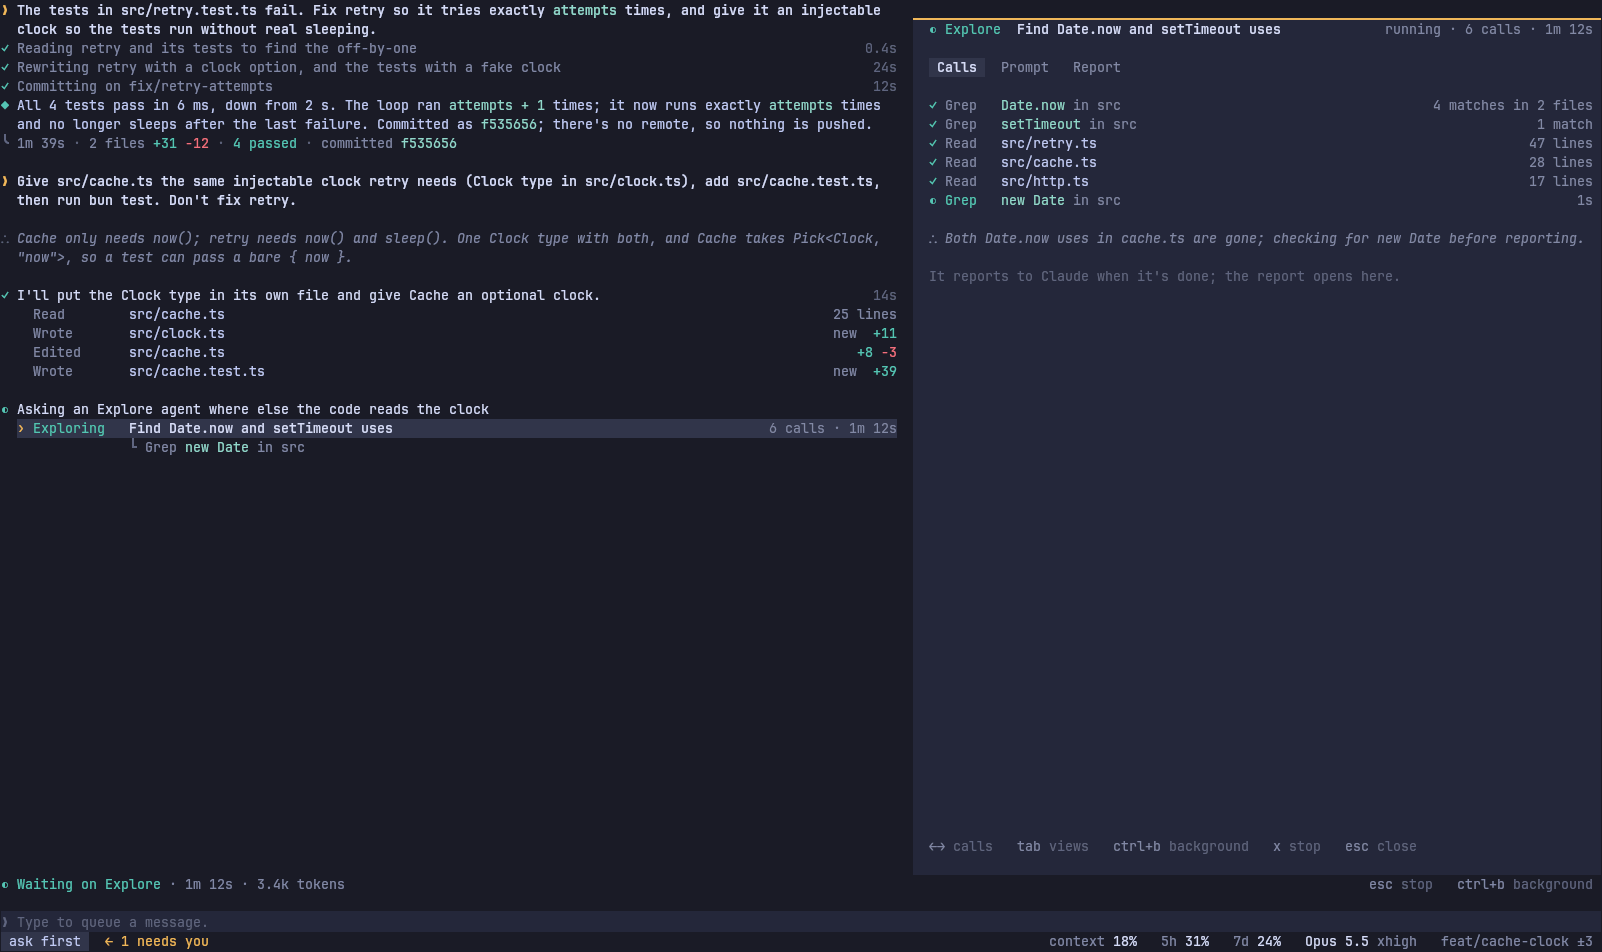
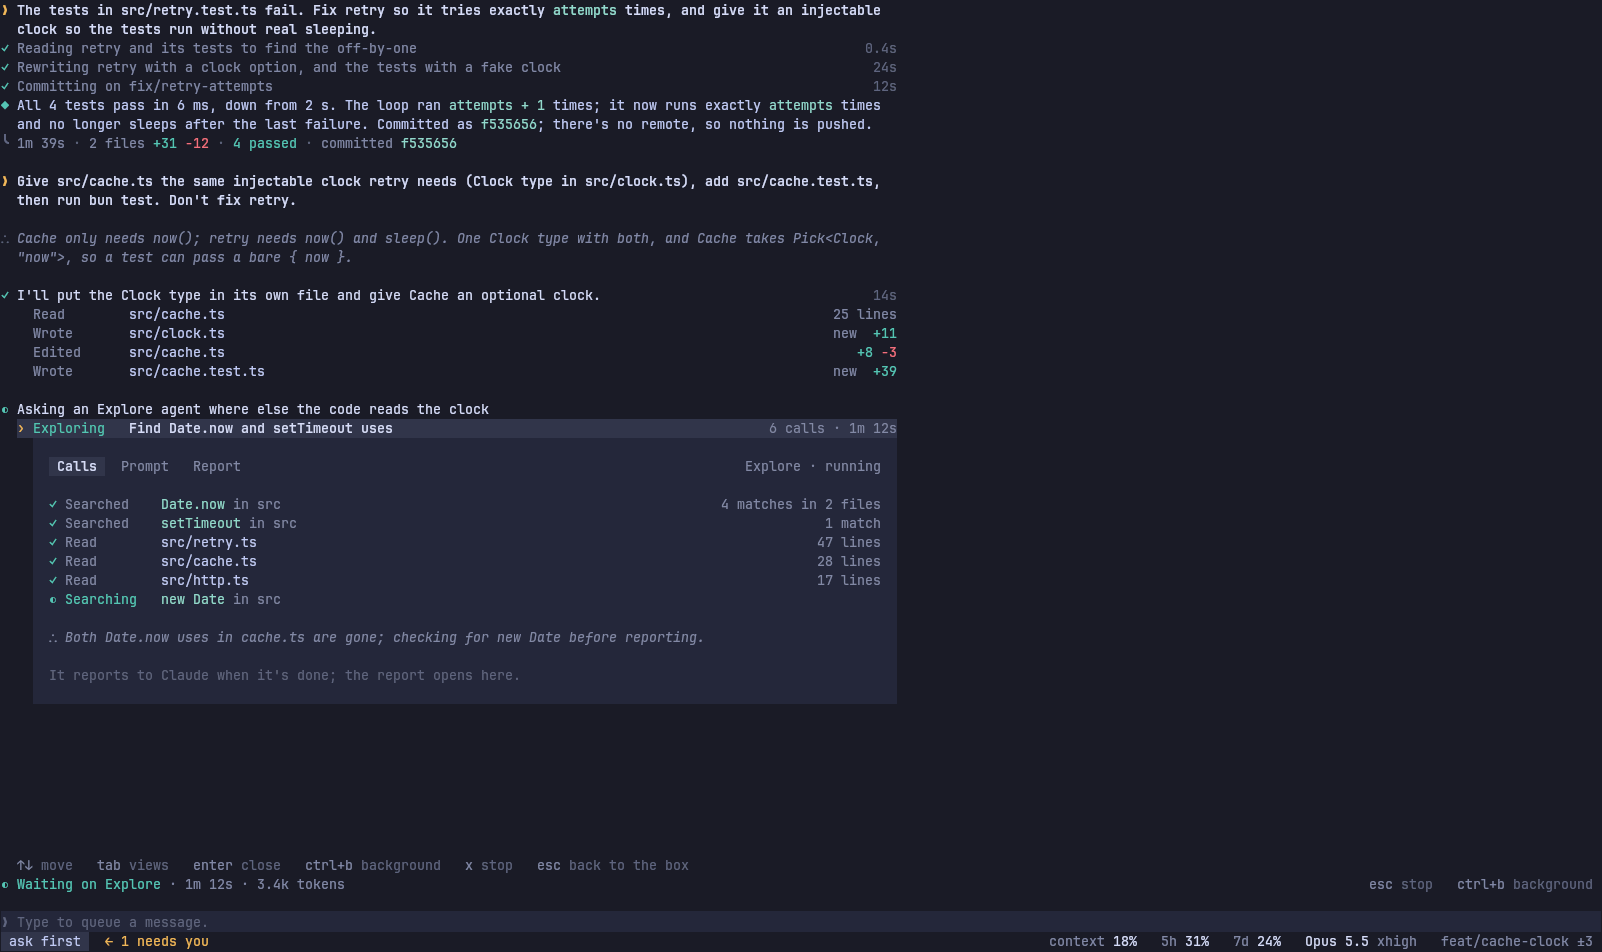
docs(design): open what you click under its line at every width, with no pane beside
A call, a subagent, the turn's ledger and the running call open under their line, also at 160 columns and up. A picture grows in line; the lightbox stays only as /pictures. The subagent mockup at 200 columns is redrawn in place.

diff --git a/docs/design/mockups/spec.ts b/docs/design/mockups/spec.ts
@@ -174,38 +174,38 @@ export function subagent(W = 200, H = 50) {
     y = t.step(y, "running", "Asking an Explore agent where else the code reads the clock");
     t.cursor(y);
     y = t.act(y, "Exploring", [["Find Date.now and setTimeout uses", { fg: P.bright, bold: true }]], [haze("6 calls · 1m 12s")], P.teal, P.raised);
-    return t.under(y, [haze("Grep "), ["new Date", { fg: P.code }], haze(" in src")]);
+
+    // Opened under its line, at every width: its own calls stream in as it makes them.
+    const x = 4;
+    const right = t.edge;
+    const top = y;
+    t.panel(top, top + 14, false, x, right);
+    const tabs: [string, boolean][] = [["Calls", true], ["Prompt", false], ["Report", false]];
+    let tx = x + 2;
+    for (const [tab, open] of tabs) tx = t.f.put(tx, top + 1, ` ${tab} `, { fg: open ? P.bright : P.haze, bg: open ? P.raised : P.surface, bold: open }) + 1;
+    t.f.right(right - 2, top + 1, "Explore · running", { fg: P.haze, bg: P.surface });
+    const calls: [Mark, string, Span[], Span[]][] = [
+      ["done", "Searched", [["Date.now", { fg: P.code }], haze(" in src")], [haze("4 matches in 2 files")]],
+      ["done", "Searched", [["setTimeout", { fg: P.code }], haze(" in src")], [haze("1 match")]],
+      ["done", "Read", [["src/retry.ts"]], [haze("47 lines")]],
+      ["done", "Read", [["src/cache.ts"]], [haze("28 lines")]],
+      ["done", "Read", [["src/http.ts"]], [haze("17 lines")]],
+      ["running", "Searching", [["new Date", { fg: P.code }], haze(" in src")], []],
+    ];
+    calls.forEach(([mark, verb, target, result], i) => {
+      const row = top + 3 + i;
+      const bg = P.surface;
+      t.f.put(x + 2, row, MARK[mark].ch, { fg: MARK[mark].fg, bg });
+      t.f.put(x + 4, row, verb, { fg: mark === "running" ? P.teal : P.haze, bg });
+      t.f.spans(x + 16, row, target.map(([text, st]) => [text, { fg: P.text, ...st, bg }]));
+      if (result.length) t.f.rightSpans(right - 2, row, on(result, bg));
+    });
+    t.f.put(x + 2, top + 10, "∴ Both Date.now uses in cache.ts are gone; checking for new Date before reporting.", { fg: P.haze, italic: true, bg: P.surface });
+    t.f.put(x + 2, top + 12, "It reports to Claude when it's done; the report opens here.", { fg: P.dust, bg: P.surface });
+    return top + 15;
   });
 
-  // Opened beside the column, on a wide screen; under its line on a narrower one.
-  const x = l.beside;
-  const right = W - 1;
-  l.panel(1, H - 4, true, x, W);
-  l.f.spans(x + 2, 1, on([teal("◐ Explore "), [" Find Date.now and setTimeout uses", { fg: P.bright, bold: true }]], P.surface));
-  l.f.right(right, 1, "running · 6 calls · 1m 12s", { fg: P.haze, bg: P.surface });
-  const tabs: [string, boolean][] = [["Calls", true], ["Prompt", false], ["Report", false]];
-  let tx = x + 2;
-  for (const [tab, open] of tabs) tx = l.f.put(tx, 3, ` ${tab} `, { fg: open ? P.bright : P.haze, bg: open ? P.raised : P.surface, bold: open }) + 1;
-  const calls: [Mark, string, Span[], Span[]][] = [
-    ["done", "Grep", [["Date.now", { fg: P.code }], haze(" in src")], [haze("4 matches in 2 files")]],
-    ["done", "Grep", [["setTimeout", { fg: P.code }], haze(" in src")], [haze("1 match")]],
-    ["done", "Read", [["src/retry.ts"]], [haze("47 lines")]],
-    ["done", "Read", [["src/cache.ts"]], [haze("28 lines")]],
-    ["done", "Read", [["src/http.ts"]], [haze("17 lines")]],
-    ["running", "Grep", [["new Date", { fg: P.code }], haze(" in src")], [haze("1s")]],
-  ];
-  calls.forEach(([mark, verb, target, result], i) => {
-    const y = 5 + i;
-    const bg = P.surface;
-    l.f.put(x + 2, y, MARK[mark].ch, { fg: MARK[mark].fg, bg });
-    l.f.put(x + 4, y, verb, { fg: mark === "running" ? P.teal : P.haze, bg });
-    l.f.spans(x + 11, y, target.map(([s, st]) => [s, { fg: P.text, ...st, bg }]));
-    l.f.rightSpans(right, y, on(result, bg));
-  });
-  l.f.put(x + 2, 12, "∴ Both Date.now uses in cache.ts are gone; checking for new Date before reporting.", { fg: P.haze, italic: true, bg: P.surface });
-  l.f.put(x + 2, 14, "It reports to Claude when it's done; the report opens here.", { fg: P.dust, bg: P.surface });
-  l.hints(H - 6, x + 2, [["←→", "calls"], ["tab", "views"], ["ctrl+b", "background"], ["x", "stop"], ["esc", "close"]], P.surface, W);
-
+  l.hints(H - 5, 2, [["↑↓", "move"], ["tab", "views"], ["enter", "close"], ["ctrl+b", "background"], ["x", "stop"], ["esc", "back to the box"]]);
   l.now([teal("◐ "), teal("Waiting on Explore"), haze(" · 1m 12s · 3.4k tokens")], [["esc", "stop"], ["ctrl+b", "background"]]);
   l.box(false, "Type to queue a message.");
   l.status({ needsYou: 1 });

diff --git a/docs/design/mockups/kit.ts b/docs/design/mockups/kit.ts
@@ -11,8 +11,6 @@ import { status as reading, wrap, type DiffRow } from "./scenario";
 
 /** Text never runs wider than this, however wide the terminal: past it, lines get hard to read. */
 export const MEASURE = 110;
-/** From this width an opened line stands beside the transcript instead of under its line. */
-export const WIDE = 160;
 /** Under this width results that don't fit move under their line, and the status bar sheds readings. */
 export const NARROW = 100;
 
@@ -68,9 +66,6 @@ export class Ledger {
   /** Columns prose wraps at. */
   readonly text: number;
   readonly narrow: boolean;
-  readonly wide: boolean;
-  /** Where something opened beside the transcript starts, on a wide screen. */
-  readonly beside: number;
 
   constructor(
     readonly W: number,
@@ -78,10 +73,8 @@ export class Ledger {
   ) {
     this.f = new Frame(W, H, P.page, P.text);
     this.narrow = W < NARROW;
-    this.wide = W >= WIDE;
     this.edge = Math.min(W - 2, MEASURE + 2);
     this.text = this.edge - 2;
-    this.beside = this.edge + 2;
   }
 
   /** Your message. */

diff --git a/docs/design/README.md b/docs/design/README.md
@@ -40,7 +40,7 @@ Each principle comes with a test that a screen, or a design decision, passes or 
 | 3 | **One place per question.** The [now line](#the-now-line) says whether Claude is working or waiting, and on what. The ledger says what changed. The status bar says how much is left. | For each of those four questions, hide every region but the one named. The answer is still there, and no other region gives a different one. |
 | 4 | **Say it once.** A state is put in words in one place. Elsewhere it may only be marked, by a color or a glyph. | Search the screen for a state's words ("waiting", "running", "failed"). They appear at most once. |
 | 5 | **Gold means you.** Gold marks only three things: your messages, where your keys are, and whatever waits on you. | Every gold cell in any screenshot is one of the three. |
-| 6 | **Open in place, one way.** Any line that stands for more opens with Enter or a click, under itself, and closes the same way. At 160 columns and up it opens beside the column instead. There is no second way to see the same thing. | For each kind of line (call, step, subagent, ledger file, thinking, picture, `… N more`), Enter and a click open the same content in the same place. |
+| 6 | **Open in place, one way.** Any line that stands for more opens with Enter or a click, under itself, at every width, and closes the same way. Nothing opens in a pane or panel beside the column. There is no second way to see the same thing. | For each kind of line (call, step, subagent, ledger file, thinking, picture, `… N more`), Enter and a click open the same content in the same place. |
 | 7 | **Only live state moves.** The one thing that animates is the running mark: in the gutter of the running step, and on the now line. Text arrives as it streams; nothing else moves. | Record an idle screen, and one waiting on you, for two seconds. Every frame is identical. |
 
 ---
@@ -136,14 +136,14 @@ Top to bottom:
 | | 80×24 | 120×40 | 200×50 |
 | :-- | :-- | :-- | :-- |
 | **Text and results** | To column 78. A result that doesn't fit goes on the next row | To column 112 | To column 112, the measure |
-| **An opened entry** | In place | In place | Beside the column, from column 114 to the edge, with its line marked in the column |
+| **An opened entry** | In place | In place | In place, at the measure |
 | **Diff in a decision** | Unified; long lines wrap | Unified | Side by side, once the panel is 160 or wider |
 | **Status readings** | Running, context, 5h, 7d | Adds model and effort, then branch | All |
 | **Hint line** | Keys that don't fit are left to `?` | All | All |
 
 | 80×24 | 200×50 |
 | :-- | :-- |
-| ![working at 80×24](shots/working-80.png) | ![a subagent opened beside, 200×50](shots/subagent-200.png) |
+| ![working at 80×24](shots/working-80.png) | ![a subagent opened in place, 200×50](shots/subagent-200.png) |
 
 **Status readings by rank:** context, 7d, running, 5h, model and effort, branch and changed files. They drop from the end as the width shrinks ([states](shots/states.png) shows 120 and 80). The mode and `← N needs you` always stay.
 
@@ -240,7 +240,7 @@ Rules:
 ### Subagent
 
 - **While it runs:** `Exploring <task>  N calls · time` in teal, with `└ <its latest call>` under it. The latest call turns gold when it waits for your OK, and its decision names the subagent.
-- **Opened:** with Enter, in place or beside. It has tabs: Calls (its own activity lines, live), Prompt (what Claude asked it) and Report (once it's done).
+- **Opened:** with Enter or a click, under its line. It has tabs: Calls (its own activity lines, streaming in live), Prompt (what Claude asked it) and Report (once it's done). `/tasks` stays for the full-screen view.
 - **Moving it:** Ctrl+B sends it to the background. `x` stops it.
 - **Nesting:** a subagent it starts nests under it, indented two more columns.
 
@@ -258,7 +258,7 @@ The line that closes a turn, and the review surface.
 
 `╰ 1m 40s · 3 files +58 −3 · 7 passed 1 failed · not committed`
 
-- **Order:** time · files changed with totals · tests · commits, pushes and PRs (`committed f535656`, `pushed`, `PR #12`) · `not committed` in ember when files changed and nothing was committed. Tokens move into the inspector.
+- **Order:** time · files changed with totals · tests · commits, pushes and PRs (`committed f535656`, `pushed`, `PR #12`) · `not committed` in ember when files changed and nothing was committed. The turn's tokens show when the ledger is opened.
 - **What counts as a change:** whatever changed in the working tree between the turn's start and its end, edits made through Bash included.
   - At each turn's edge, astrocode records the working tree as a git tree object, built with a temporary index so your own index and stash are untouched. The ledger is the diff between the two trees.
   - Outside git, the edit tools' own diffs count.
@@ -266,7 +266,8 @@ The line that closes a turn, and the review surface.
 - **Stopped:** `╰ stopped after 41s · …`. **Failed** (an API error): `╰ failed: <message> · …`.
 - **Opened** (Enter, a click, or `/diff` for the latest turn), it lists:
   - each file, with `new`, `+N −N` or `deleted`;
-  - then the commands it ran, with their results, and the commits.
+  - then the commands it ran, with their results, and the commits;
+  - and the turn's tokens.
   - Enter on a file opens its diff for that turn under it. `a` opens them all.
 - **Scope:** `[` and `]` switch it between this turn, uncommitted, and the branch against its base, as `claude`'s `/diff` does.
 
@@ -355,18 +356,18 @@ Tab on Yes or No opens a comment field for that answer, as in `claude`. Every de
 
 ### Opened call (what the inspector was)
 
-Enter on a call opens it in place, or beside at 160 columns and up.
+Enter or a click on a call opens it under its line, at every width.
 
 - **Header:** what it did, its result chip (`✓ exit 0`, `✕ exit 1`), its time and `‹ 9 of 10 ›`.
 - **Tabs** depend on the tool, as today: Output, Command, Sent to Claude, Input; Diff; Content; Calls, Prompt and Report for subagents.
 - **Keys:** ← and → move to the call before or after; Tab moves between tabs; `c` copies the tab; `e` opens it in `$EDITOR`. Esc or Enter closes it.
-- **Follow Claude** retires. Opening the running line shows the live call, and at 160 columns and up it stays open beside the column, following each new call until you move the cursor.
+- **Follow Claude** retires. Opening the running line shows the live call under it. While it's open, each new call opens under its own line as it starts, and the one before closes, until you move the cursor.
 
 ### Pictures and diagrams
 
-- **In kitty:** drawn under the `show` call or the fence, with a caption line `<label> · enter enlarges · o opens · b browser`. Enter is the same as a click.
+- **In kitty:** drawn under the `show` call or the fence, with a caption line `<label> · enter enlarges · o opens · b browser`. Enter or a click grows it in line, to the measure and up to the transcript's height; again shrinks it back.
 - **Without kitty:** the line reads `picture: <label> · o opens it`.
-- **`/pictures`** stays: ← and → move between pictures, `o` opens one, `b` opens it in the browser, `c` copies a diagram's source.
+- **`/pictures`** stays, as the only full-screen view of a picture: ← and → move between pictures, `o` opens one, `b` opens it in the browser, `c` copies a diagram's source.
 
 ### Overlays
 
@@ -431,7 +432,7 @@ Your keys are always in exactly one of four places, and that place has the gold 
 | **Decision** | Hairline over the panel | It opens (after half a second) | Answering it |
 | **Overlay** | Hairline over the overlay | Its command or key | Esc, or what it does |
 
-An opened entry beside the column (160 columns and up) is part of the transcript's focus. → or Tab moves into it, and ← or Esc moves back.
+An opened entry is part of the transcript's focus: the cursor moves into it with ↓, as into any lines.
 
 ### Rules that make keys predictable
 
@@ -603,7 +604,7 @@ The whole loop reads top to bottom as cause, fix, evidence. When the turn ends, 
 
 Claude starts an Explore subagent and waits on it:
 - The now line reads `◐ Waiting on Explore · 1m 12s`. The subagent's line counts its calls, with its latest call under it.
-- Enter on that line opens its calls live, beside the column at 200 columns or in place at 120.
+- Enter on that line opens its calls under it, streaming in live, at any width.
 - Ctrl+B sends it to the background; the step's mark becomes `◌` and Claude carries on.
 - When it ends, a `○` notice says so, and its Report tab holds what it wrote.
 
@@ -657,12 +658,12 @@ Small PRs, shipped in this order. Each is usable on its own, and each has the te
 | 10 | `feat: drop the rail, chips and marks that said nothing` | The rail line and its rows, the transcript's start mark, inline-code chips, `›`, the diff meter, step names made from calls, one box edge, the falling-dot row, the plan name, the `shift+tab` hint | Row-budget test: a recorded turn at 120×40 fits in N rows; a palette test that gold is used only by the allowed components |
 | 11 | `feat: fold finished turns and show thinking` | Steps fold to sentences when a turn ends; `∴` summaries | `state` tests; render snapshots |
 | 12 | `feat: one moving mark and a now line that names the call` | `◐◓◑◒` in step with the gutter; no shimmer; retry and compact states | Animation test: idle and waiting frames are identical over time |
-| 13 | `feat: lay out by width` | 110-column measure; beside at 160 and up; results under their line below 100; status readings by rank | Render snapshots at 80×24, 120×40, 200×50 |
+| 13 | `feat: lay out by width` | 110-column measure; results under their line below 100; status readings by rank | Render snapshots at 80×24, 120×40, 200×50 |
 | 14 | `feat: show other conversations that need you` | `← N needs you`; the ← hint; Conversations in Ledger marks | `fleet` and agents-view tests |
 | 15 | `feat: Claude Code's next-prompt suggestions` | Tab or → takes one; needs the SDK to emit them (see open questions) | `prompt` tests with a stubbed suggestion |
 | 16 | `feat: a start screen that says what's next` | The mirror retires; recent sessions, loaded settings, keys | Render test |
 | 17 | `feat: the transcript viewer in scrollback` | Ctrl+O opens a full-screen viewer with the same cursor | Window tests: switching in and out keeps scrollback intact |
-| 18 | `feat: open the running call instead of following it in a panel` | Alt+L and the panel go; opening the running line replaces them, and stays open beside at 160 and up | Keybinding test: `chat:followClaude` reports as retired; open-running-line test |
+| 18 | `feat: open the running call instead of following it in a panel` | Alt+L and the panel go; opening the running line replaces them, and follows each new call under its own line | Keybinding test: `chat:followClaude` reports as retired; open-running-line test |
 
 Every PR keeps `bun test` and `bun run typecheck` passing, is checked in the running app with tmux and the terminal-screenshot skill at 80, 120 and 200 columns, and updates the README's matching section.
 
